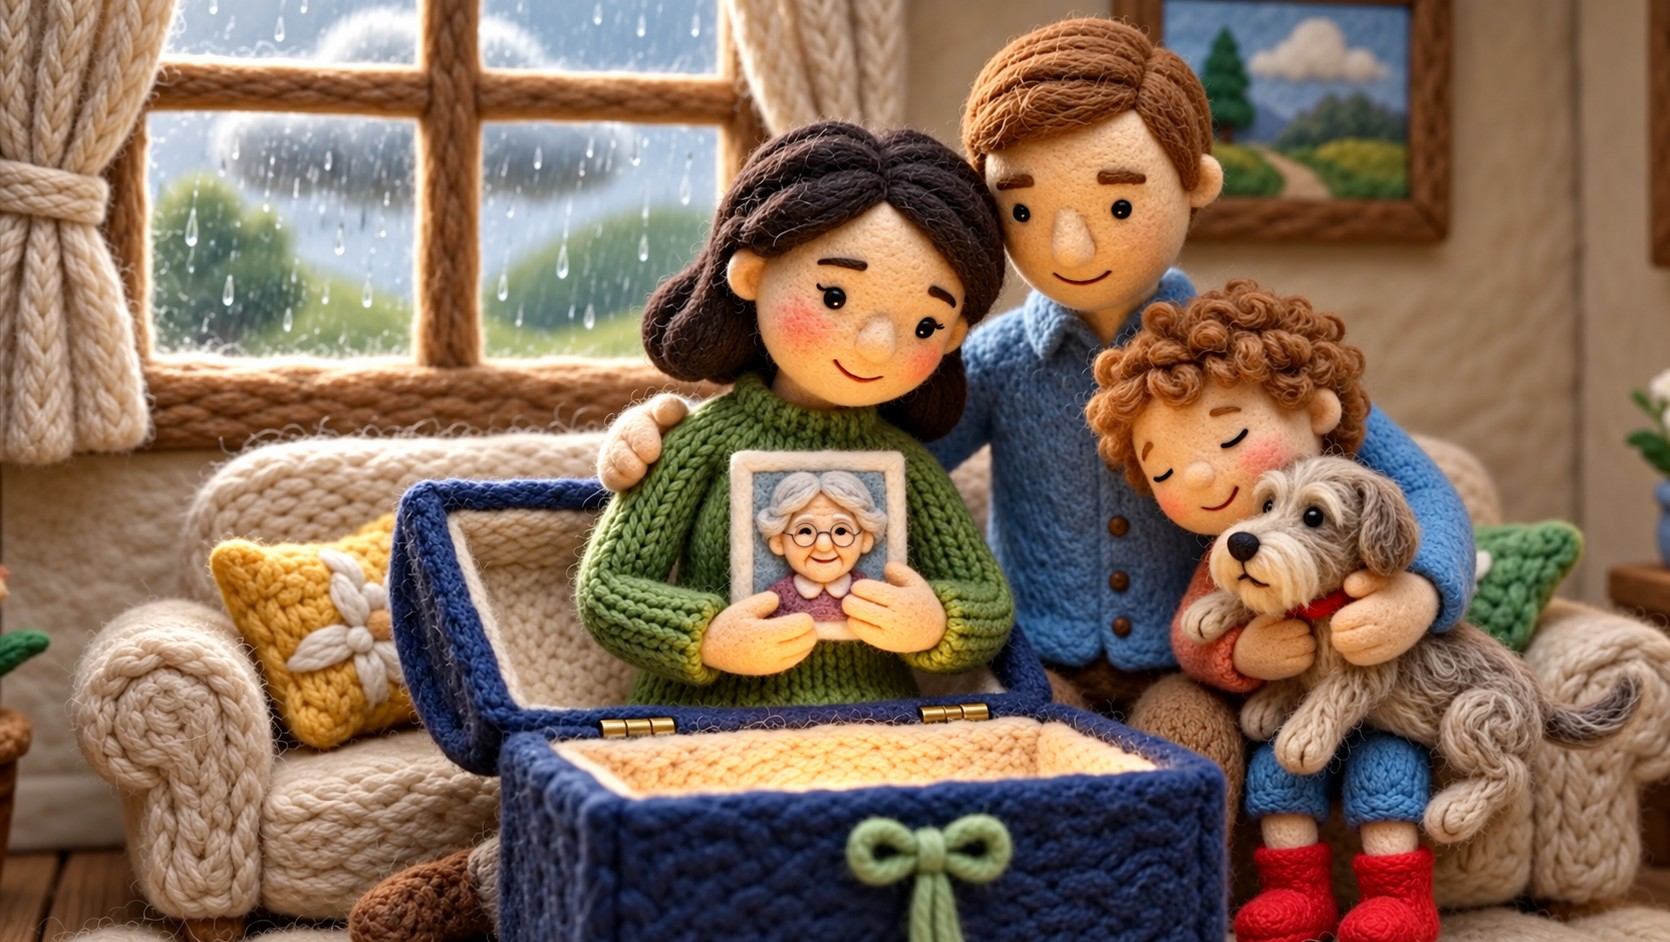
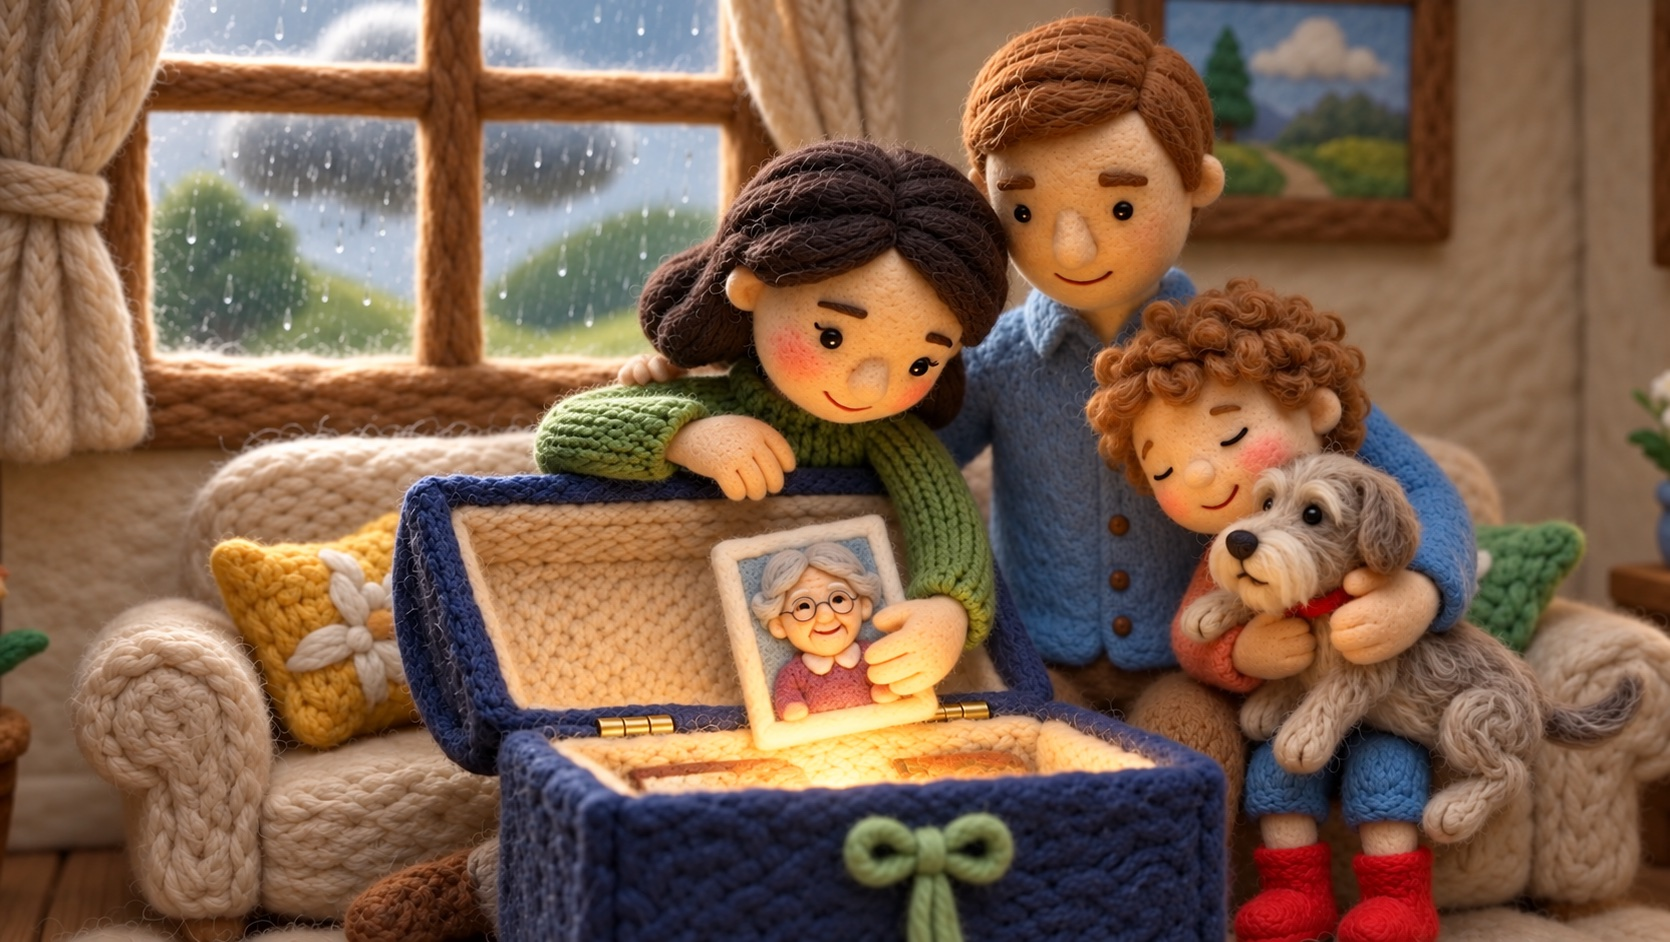
Hero: corrected felt-family export (the mother no longer sits in the box)
New export from Julien (2026-09-15, same 1670x942 frame): the mother leans
over the open keepsake box instead of sitting inside it. Desktop hero,
portrait phone crop (620x942 from x=640) and the link-preview card all
regenerated; og-image cache key bumped to v=4 so LinkedIn and friends
refetch it. Used by the homepage and the families use-case page.

diff --git a/index.html b/index.html
@@ -31,7 +31,7 @@
     <meta property="og:url" content="https://www.everstead.care" data-rh="true" />
     <meta property="og:title" content="Everstead | Everything that matters, gathered in one secure place." data-rh="true" />
     <meta property="og:description" content="One secure place for your accounts, documents, trusted contacts, and wishes, organised for life, not just for death." data-rh="true" />
-    <meta property="og:image" content="https://www.everstead.care/og-image.jpg?v=3" data-rh="true" />
+    <meta property="og:image" content="https://www.everstead.care/og-image.jpg?v=4" data-rh="true" />
     <meta property="og:site_name" content="Everstead" />
     <meta property="og:locale" content="en_GB" data-rh="true" />
 
@@ -39,7 +39,7 @@
     <meta name="twitter:card" content="summary_large_image" data-rh="true" />
     <meta name="twitter:title" content="Everstead | Everything that matters, gathered in one secure place." data-rh="true" />
     <meta name="twitter:description" content="One secure place for your accounts, documents, trusted contacts, and wishes, organised for life, not just for death." data-rh="true" />
-    <meta name="twitter:image" content="https://www.everstead.care/og-image.jpg?v=3" data-rh="true" />
+    <meta name="twitter:image" content="https://www.everstead.care/og-image.jpg?v=4" data-rh="true" />
 
     <!-- Geo targeting -->
     <meta name="geo.region" content="GB" />

diff --git a/src/seo/defaults.js b/src/seo/defaults.js
@@ -26,4 +26,4 @@ export const SEO_DEFAULTS = {
   },
 }
 
-export const SEO_IMAGE = 'https://www.everstead.care/og-image.jpg?v=3'
+export const SEO_IMAGE = 'https://www.everstead.care/og-image.jpg?v=4'
